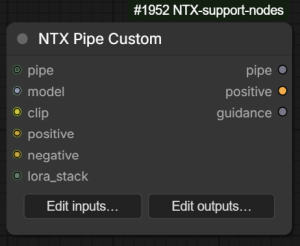
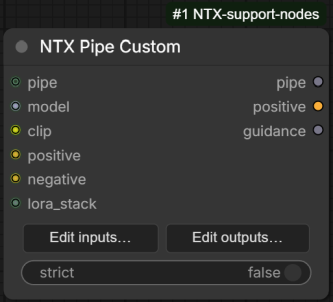
Improved PipeCustom

diff --git a/web/js/context.pipe_custom.js b/web/js/context.pipe_custom.js
@@ -486,9 +486,8 @@ function slotsMatch(node, data) {
 // ── Name suggestions ──────────────────────────────────────────────────────────
 // Candidate names offered by the editor's autocompletion: the entries already
 // configured on the other side of this node, plus every key written into the
-// pipe by the chain of PipeCustom nodes feeding this node's pipe input.
-// Returns a name → type map, also used to preset the row type when a
-// suggested name is picked.
+// pipe by the PipeCustom nodes found upstream. Returns a name → type map,
+// also used to preset the row type when a suggested name is picked.
 
 function collectNameSuggestions(node, widget, otherKind) {
     const suggestions = new Map();
@@ -496,17 +495,37 @@ function collectNameSuggestions(node, widget, otherKind) {
         if (!suggestions.has(e.name)) suggestions.set(e.name, e.type);
     }
 
-    let cur = node;
-    for (let guard = 0; guard < 100; guard++) {      // guard against link cycles
-        const pipeIn = (cur.inputs ?? []).find(s => s.name === "pipe" && !s.widget);
-        const link = pipeIn?.link != null ? cur.graph?.links?.[pipeIn.link] : null;
-        const up = link ? cur.graph.getNodeById(link.origin_id) : null;
-        if (!up || up.comfyClass !== NODE_ID) break;
-        const w = getPipeWidget(up);
-        for (const e of w?.getData?.().inputs ?? []) {
-            if (!suggestions.has(e.name)) suggestions.set(e.name, e.type);
+    // Walk the graph upstream, breadth-first, starting from this node: every
+    // DICT-typed input is followed to its origin node, so merge/debug/other
+    // pipe-passing nodes do not cut the search short. Only PipeCustom nodes
+    // contribute names (their configured inputs — the keys they write into
+    // the pipe). Capped at 100 visited nodes to bound the walk.
+    const graph = node.graph;
+    if (!graph) return suggestions;
+
+    const visited = new Set([node.id]);
+    const queue = [node];
+    let hops = 0;
+    while (queue.length && hops < 100) {
+        const cur = queue.shift();
+        hops++;
+
+        if (cur !== node && cur.comfyClass === NODE_ID) {
+            const w = getPipeWidget(cur);
+            for (const e of w?.getData?.().inputs ?? []) {
+                if (!suggestions.has(e.name)) suggestions.set(e.name, e.type);
+            }
         }
-        cur = up;
+
+        for (const slot of cur.inputs ?? []) {
+            if (slot.type !== "DICT") continue;
+            const link = slot.link != null ? graph.links?.[slot.link] : null;
+            const up = link ? graph.getNodeById(link.origin_id) : null;
+            if (up && !visited.has(up.id)) {
+                visited.add(up.id);
+                queue.push(up);
+            }
+        }
     }
     return suggestions;
 }

diff --git a/README.md b/README.md
@@ -31,6 +31,7 @@ outputs are configured **independently** — a node may, for example, only add v
 |---|---|---|
 | `pipe` | DICT (optional) | An upstream pipe to extend. If omitted, a new empty pipe is created. The input pipe is cloned, so downstream changes never affect the upstream dictionary. |
 | `inputs_data` | STRING (hidden) | JSON produced by the editor dialog describing the configured inputs/outputs (`{"inputs": [...], "outputs": [...]}`). Managed entirely by the frontend; not edited by hand. |
+| `strict` | BOOLEAN | When enabled, a warning toast (and log entry) lists every configured output whose name is not found in the pipe — typically a typo between an upstream input and this output. The per-type default is returned either way; execution is not interrupted. Default `false`. |
 | *custom inputs* | user-defined | One slot per configured input, with the chosen name and type. Only connected (non-None) values are written into the pipe. |
 
 ### Outputs
@@ -40,8 +41,8 @@ outputs are configured **independently** — a node may, for example, only add v
 | `pipe` | DICT | The merged pipe dictionary (input pipe + values from the connected custom inputs). |
 | *custom outputs* | user-defined | One slot per configured output; each returns `pipe[name]`. If the name is not present in the pipe, a per-type default is returned (`0` for INT, `0.0` for FLOAT, `""` for STRING, `False` for BOOLEAN, `[]` for LORA_STACK / CONTROL_NET_STACK / LIST, `{}` for DICT, `None` otherwise). |
 
-Up to **30** custom inputs and 30 custom outputs per node. The names `pipe` and `inputs_data`
-are reserved and cannot be used for custom entries.
+Up to **30** custom inputs and 30 custom outputs per node. The names `pipe`, `inputs_data` and
+`strict` are reserved and cannot be used for custom entries.
 
 ### Frontend
 
@@ -51,6 +52,11 @@ dialog for the corresponding side. In the dialog:
 - **+ Add** appends a new entry; each row has a name field and a type dropdown
   (IMAGE, MASK, LATENT, MODEL, CLIP, VAE, CONDITIONING, INT, FLOAT, STRING, BOOLEAN,
   LORA_STACK, CONTROL_NET_STACK, DICT, LIST, `*`).
+- The name field offers **autocompletion**: suggested names are the entries configured on the
+  other side of the node, plus every key written into the pipe by the PipeCustom nodes found
+  upstream (the graph is walked breadth-first through all DICT-typed inputs — so PipeMerge
+  branches and pipe-passing nodes are traversed — up to 100 nodes). Picking a suggested name
+  also presets the row's type to the type known for that key; it can still be changed manually.
 - Rows can be **drag-reordered** with the handle and removed with **✕**.
 - **Renaming** a row keeps its slot and any connected wires — only removing a row (or changing
   its type) drops the wire. A rename is also propagated to the entry with the same name on the
@@ -59,7 +65,9 @@ dialog for the corresponding side. In the dialog:
 - **Copy from inputs/outputs** replaces the list with the entries of the other side.
 - **Load template…** opens a picker with predefined property sets loaded from
   `input/ntx_data/custompipe_configs.txt`; the chosen template's properties are appended,
-  skipping names already present.
+  skipping names already present. Ticking **Replace current entries** in the picker clears the
+  list before the template is applied instead of appending to it (nothing is committed until
+  the editor dialog is confirmed with **OK**).
 - **Save as template…** stores the current list as a named template in the same file, so it can
   be reloaded later on any PipeCustom node. If the name is already taken, the button changes to
   **Overwrite** and a second click is required to replace the existing template.